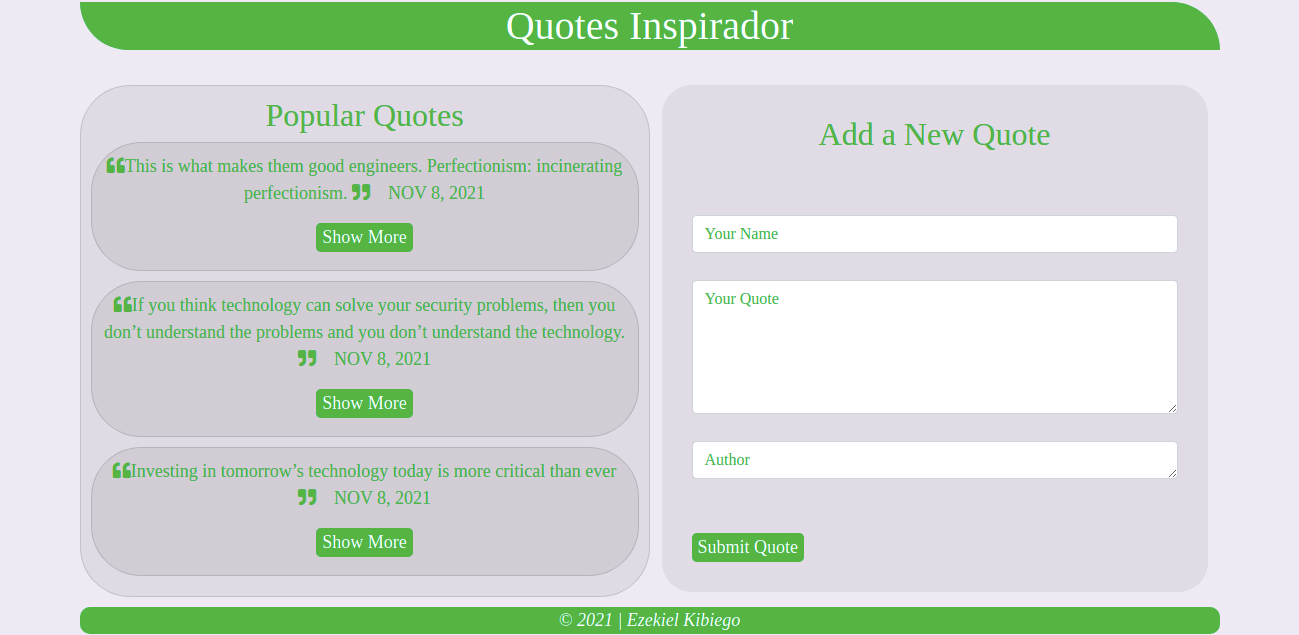
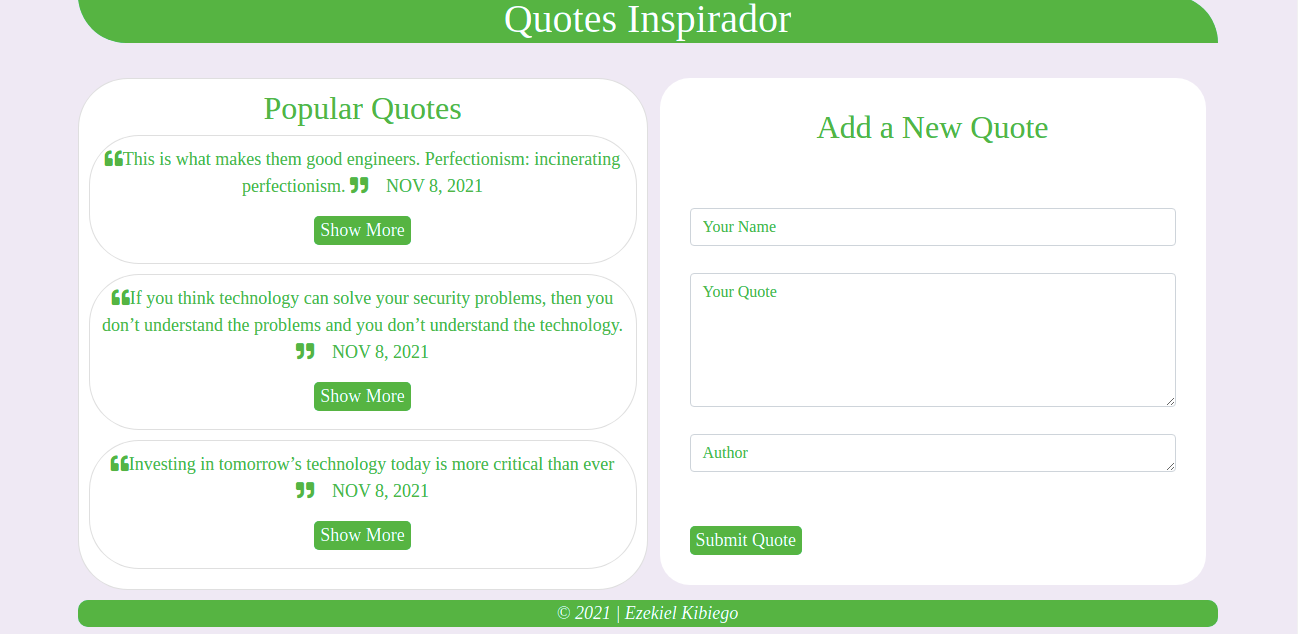
remove cards background color

diff --git a/src/app/quotes/quotes.component.css b/src/app/quotes/quotes.component.css
@@ -26,7 +26,6 @@
 
   
   .card{
-    background-color: rgba(24, 24, 26, 0.068);
     margin-bottom: 10px;
     padding: 10px;
     border-radius: 50px;

diff --git a/src/app/quote-form/quote-form.component.css b/src/app/quote-form/quote-form.component.css
@@ -1,7 +1,7 @@
 .form{
     padding: 30px;
     border-radius: 30px;
-    background: rgba(24, 24, 26, 0.068);
+    background: white;
    
 }
 
